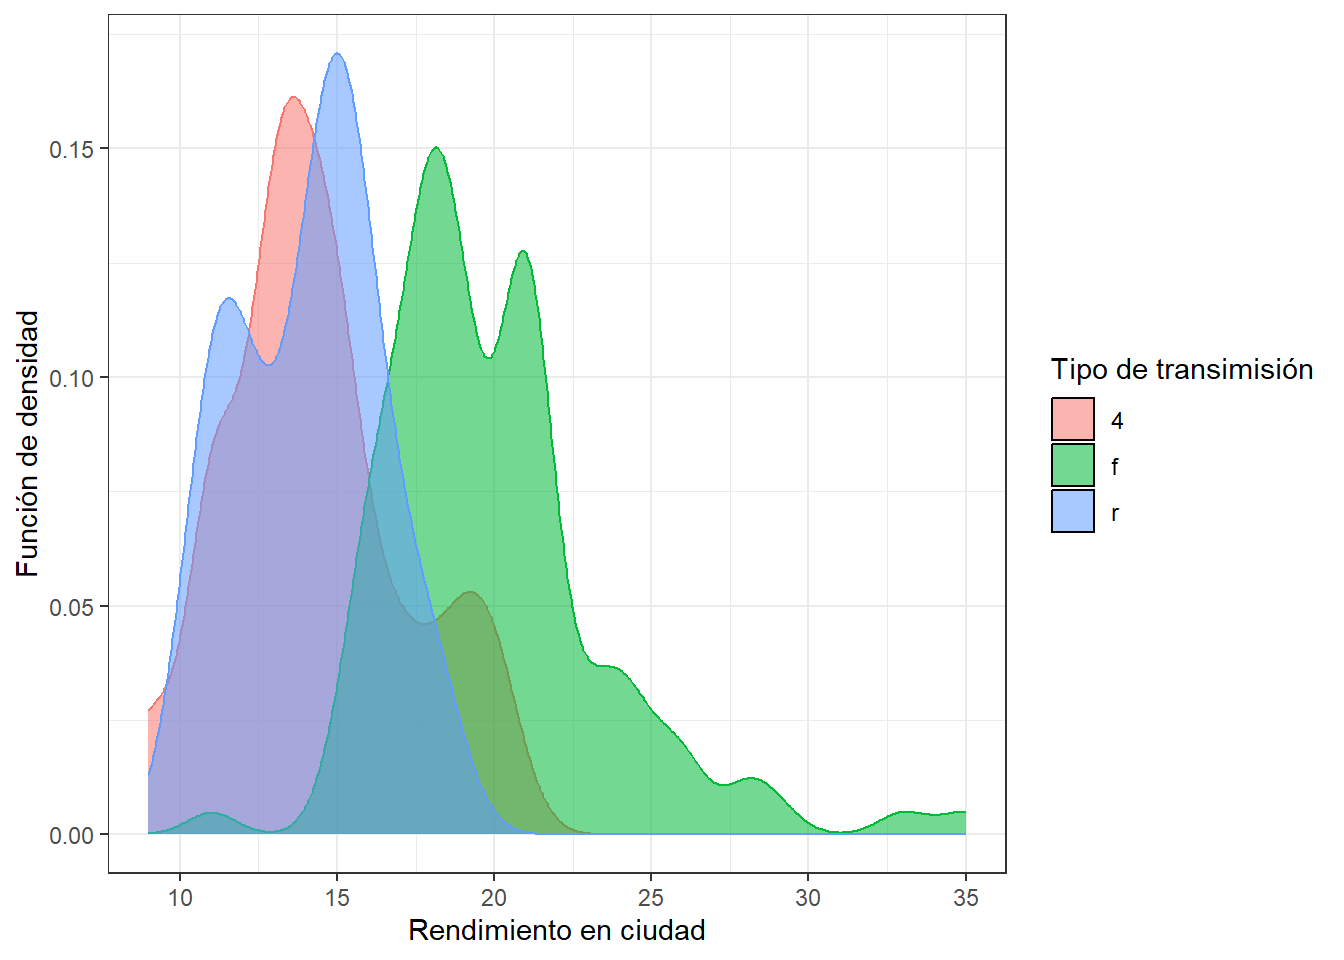
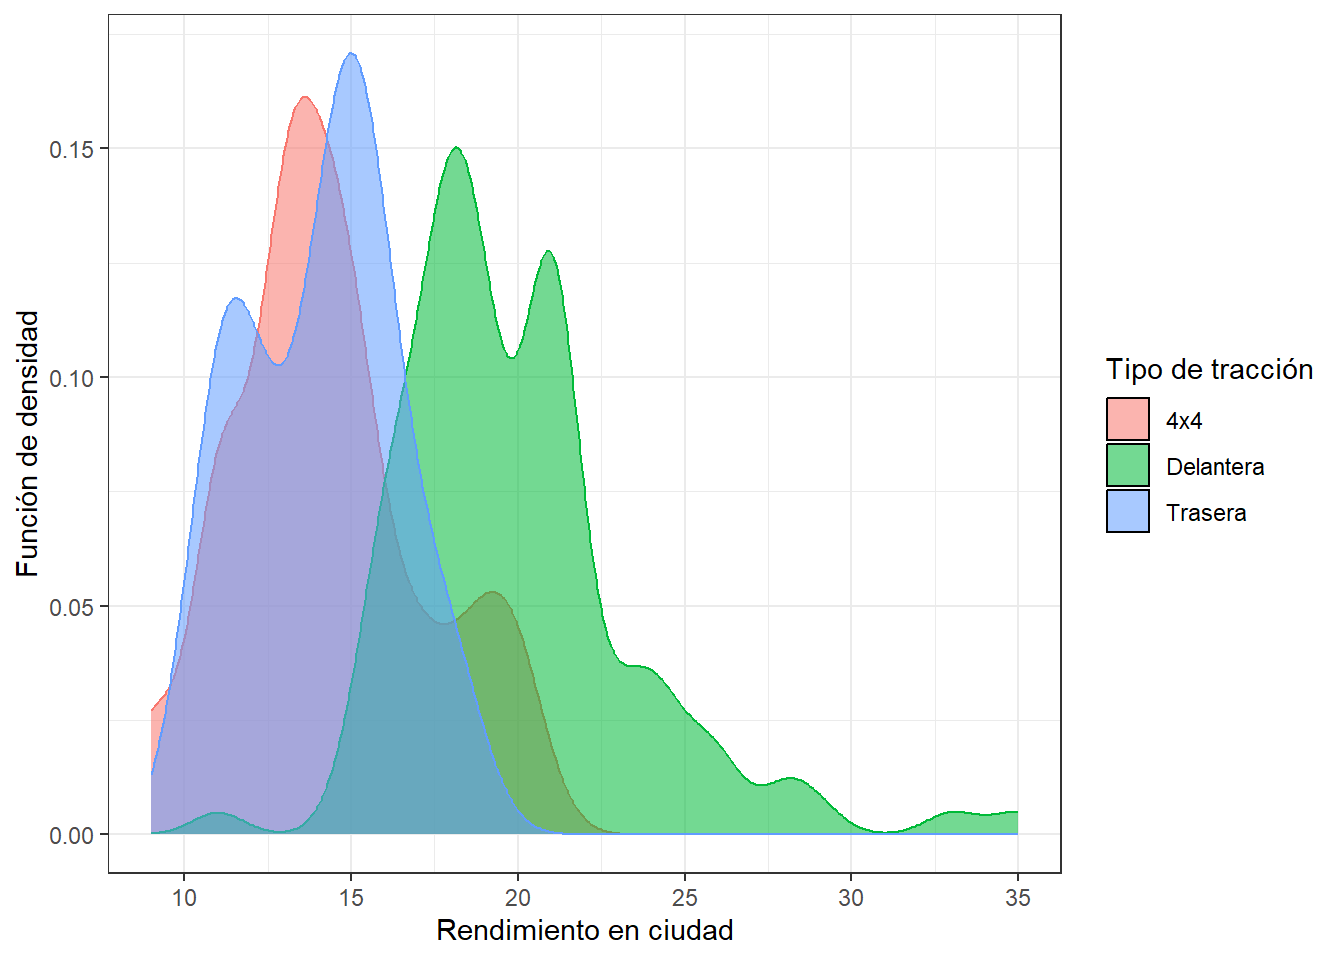
Nota sobre integral relativa a un conjunto

diff --git a/main.html b/main.html
@@ -6,8 +6,11 @@
 
 <meta name="viewport" content="width=device-width, initial-scale=1.0, user-scalable=yes">
 
+<meta name="author" content="Maria del Mar Deyà">
+<meta name="author" content="Toni Fuentes Bauzà">
+<meta name="author" content="Frank William Hammond Espinosa">
 
-<title>entrega2</title>
+<title>Entrega 2</title>
 <style>
 code{white-space: pre-wrap;}
 span.smallcaps{font-variant: small-caps;}
@@ -108,13 +111,21 @@ code span.wa { color: #60a0b0; font-weight: bold; font-style: italic; } /* Warni
 
 <header id="title-block-header" class="quarto-title-block default">
 <div class="quarto-title">
-<h1 class="title">entrega2</h1>
+<h1 class="title">Entrega 2</h1>
 </div>
 
 
 
 <div class="quarto-title-meta">
 
+    <div>
+    <div class="quarto-title-meta-heading">Authors</div>
+    <div class="quarto-title-meta-contents">
+             <p>Maria del Mar Deyà </p>
+             <p>Toni Fuentes Bauzà </p>
+             <p>Frank William Hammond Espinosa </p>
+          </div>
+  </div>
     
   
     
@@ -188,7 +199,7 @@ $ class        &lt;chr&gt; "compact", "compact", "compact", "compact", "compact"
 <span id="cb6-3"><a href="#cb6-3" aria-hidden="true" tabindex="-1"></a>  <span class="fu">ggplot</span>(<span class="fu">aes</span>(<span class="at">x=</span>class, <span class="at">y=</span>cty,<span class="at">fill=</span>class)) <span class="sc">+</span> </span>
 <span id="cb6-4"><a href="#cb6-4" aria-hidden="true" tabindex="-1"></a>  <span class="fu">geom_boxplot</span>()<span class="sc">+</span></span>
 <span id="cb6-5"><a href="#cb6-5" aria-hidden="true" tabindex="-1"></a>  <span class="fu">stat_summary</span>(<span class="at">fun.y=</span>mean, <span class="at">geom=</span><span class="st">"point"</span>, <span class="at">shape=</span><span class="dv">3</span>, <span class="at">size=</span><span class="dv">3</span>,<span class="at">show.legend =</span> <span class="cn">FALSE</span>)<span class="sc">+</span></span>
-<span id="cb6-6"><a href="#cb6-6" aria-hidden="true" tabindex="-1"></a>  <span class="fu">labs</span>(<span class="at">x=</span><span class="st">"Clase"</span>, <span class="at">y=</span><span class="st">"Media"</span>)<span class="sc">+</span></span>
+<span id="cb6-6"><a href="#cb6-6" aria-hidden="true" tabindex="-1"></a>  <span class="fu">labs</span>(<span class="at">x=</span><span class="st">"Clase"</span>, <span class="at">y=</span><span class="st">"Rendimiento del motor en ciudad"</span>)<span class="sc">+</span></span>
 <span id="cb6-7"><a href="#cb6-7" aria-hidden="true" tabindex="-1"></a>  <span class="fu">theme_bw</span>()<span class="sc">+</span></span>
 <span id="cb6-8"><a href="#cb6-8" aria-hidden="true" tabindex="-1"></a>  <span class="fu">theme</span>(<span class="at">legend.position=</span><span class="st">"none"</span>)</span></code><button title="Copy to Clipboard" class="code-copy-button"><i class="bi"></i></button></pre></div>
 <div class="cell-output cell-output-stderr">
@@ -211,14 +222,15 @@ $ class        &lt;chr&gt; "compact", "compact", "compact", "compact", "compact"
 <span id="cb8-4"><a href="#cb8-4" aria-hidden="true" tabindex="-1"></a>  <span class="fu">geom_boxplot</span>()<span class="sc">+</span></span>
 <span id="cb8-5"><a href="#cb8-5" aria-hidden="true" tabindex="-1"></a>  <span class="fu">stat_summary</span>(<span class="at">fun.y=</span>mean, <span class="at">geom=</span><span class="st">"point"</span>, <span class="at">shape=</span><span class="dv">21</span>, <span class="at">size=</span><span class="dv">2</span>,<span class="at">show.legend =</span> <span class="cn">FALSE</span>,<span class="at">position=</span><span class="fu">position_dodge</span>(<span class="fl">0.75</span>))<span class="sc">+</span></span>
 <span id="cb8-6"><a href="#cb8-6" aria-hidden="true" tabindex="-1"></a>  <span class="fu">labs</span>(<span class="at">x=</span><span class="st">"Clase"</span>, <span class="at">y=</span><span class="st">"Rendimiento del motor en ciudad"</span>,<span class="at">fill=</span><span class="st">"Tipo de tracción"</span>)<span class="sc">+</span></span>
-<span id="cb8-7"><a href="#cb8-7" aria-hidden="true" tabindex="-1"></a>  <span class="fu">scale_fill_discrete</span>(<span class="at">labels=</span><span class="fu">c</span>(<span class="st">"4x4"</span>,<span class="st">"Frontal"</span>,<span class="st">"Trasera"</span>))<span class="sc">+</span></span>
+<span id="cb8-7"><a href="#cb8-7" aria-hidden="true" tabindex="-1"></a>  <span class="fu">scale_fill_discrete</span>(<span class="at">labels=</span><span class="fu">c</span>(<span class="st">"4x4"</span>,<span class="st">"Delantera"</span>,<span class="st">"Trasera"</span>))<span class="sc">+</span></span>
 <span id="cb8-8"><a href="#cb8-8" aria-hidden="true" tabindex="-1"></a>  <span class="fu">theme_bw</span>()</span></code><button title="Copy to Clipboard" class="code-copy-button"><i class="bi"></i></button></pre></div>
 <div class="cell-output-display">
 <p><img src="main_files/figure-html/unnamed-chunk-5-1.png" class="img-fluid" width="672"></p>
 </div>
 </div>
-<section id="pregunta-4" class="level2">
-<h2 class="anchored" data-anchor-id="pregunta-4">Pregunta 4</h2>
+</section>
+<section id="pregunta-4" class="level1">
+<h1>Pregunta 4</h1>
 <p>Utilizad un gráfico para mostrar la relación entre tamaño del motor y el rendimiento en carretera, para cada clase de vehículo. ¿Qué podéis observar?</p>
 <p>Queremos relacionar dos variables categóricas (tamaño del motor, es decir, número de cilindros; y clase de vehículo) con una cuantitativa (el rendimiento en carretera), así que estamos en la misma situación que en el apartado anterior. Podemos utilizar un gráfico similar.</p>
 <div class="cell">
@@ -236,22 +248,22 @@ $ class        &lt;chr&gt; "compact", "compact", "compact", "compact", "compact"
 </div>
 <p>Podemos observar que, en todas las clases de vehículos, el rendimiento baja con el número de cilindros, generalmente: las cajas aparecen “más abajo” mientras más cilindros tiene el motor.</p>
 </section>
-<section id="pregunta-5" class="level2">
-<h2 class="anchored" data-anchor-id="pregunta-5">Pregunta 5</h2>
+<section id="pregunta-5" class="level1">
+<h1>Pregunta 5</h1>
 <p>Comparad la distribución del rendimiento en ciudad para distintos tipos de tracción.</p>
-<p>En los siguientes gráficos podemos observar que los coches con tracción delantera (f) tienen por lo general un mayor rendimiento en ciudad que los coches con tracción trasera (r) o tracción en cuatro ruedas (4).</p>
 <div class="cell">
 <div class="sourceCode cell-code" id="cb10"><pre class="sourceCode r code-with-copy"><code class="sourceCode r"><span id="cb10-1"><a href="#cb10-1" aria-hidden="true" tabindex="-1"></a>mpg <span class="sc">%&gt;%</span> <span class="fu">select</span>(cty,drv) <span class="sc">%&gt;%</span> </span>
 <span id="cb10-2"><a href="#cb10-2" aria-hidden="true" tabindex="-1"></a>  <span class="fu">ggplot</span>(<span class="fu">aes</span>(<span class="at">x =</span> cty, <span class="at">color=</span>drv, <span class="at">fill =</span> drv)) <span class="sc">+</span></span>
 <span id="cb10-3"><a href="#cb10-3" aria-hidden="true" tabindex="-1"></a>  <span class="fu">geom_density</span>(<span class="at">alpha=</span><span class="fl">0.55</span>)<span class="sc">+</span></span>
-<span id="cb10-4"><a href="#cb10-4" aria-hidden="true" tabindex="-1"></a>  <span class="fu">labs</span>(<span class="at">x=</span><span class="st">"Rendimiento en ciudad"</span>,<span class="at">y=</span><span class="st">"Función de densidad"</span>,<span class="at">fill=</span><span class="st">"Tipo de transimisión"</span>)<span class="sc">+</span></span>
+<span id="cb10-4"><a href="#cb10-4" aria-hidden="true" tabindex="-1"></a>  <span class="fu">labs</span>(<span class="at">x=</span><span class="st">"Rendimiento en ciudad"</span>,<span class="at">y=</span><span class="st">"Función de densidad"</span>,<span class="at">fill=</span><span class="st">"Tipo de tracción"</span>)<span class="sc">+</span></span>
 <span id="cb10-5"><a href="#cb10-5" aria-hidden="true" tabindex="-1"></a>  <span class="fu">guides</span>(<span class="at">color=</span><span class="st">"none"</span>)<span class="sc">+</span> <span class="co"># si no se pone, muestra otra leyenda que no aporta informacion</span></span>
-<span id="cb10-6"><a href="#cb10-6" aria-hidden="true" tabindex="-1"></a>  <span class="fu">theme_bw</span>()</span></code><button title="Copy to Clipboard" class="code-copy-button"><i class="bi"></i></button></pre></div>
+<span id="cb10-6"><a href="#cb10-6" aria-hidden="true" tabindex="-1"></a>  <span class="fu">scale_fill_discrete</span>(<span class="at">labels=</span><span class="fu">c</span>(<span class="st">"4x4"</span>,<span class="st">"Delantera"</span>,<span class="st">"Trasera"</span>))<span class="sc">+</span></span>
+<span id="cb10-7"><a href="#cb10-7" aria-hidden="true" tabindex="-1"></a>  <span class="fu">theme_bw</span>()</span></code><button title="Copy to Clipboard" class="code-copy-button"><i class="bi"></i></button></pre></div>
 <div class="cell-output-display">
 <p><img src="main_files/figure-html/unnamed-chunk-7-1.png" class="img-fluid" width="672"></p>
 </div>
 </div>
-</section>
+<p>En los gráficos anteriores podemos observar que los coches con tracción delantera tienen por lo general un mayor rendimiento en ciudad que los coches con tracción trasera o tracción en cuatro ruedas, y no hay demasiada diferencia entre estos dos últimos.</p>
 </section>
 
 </main>
